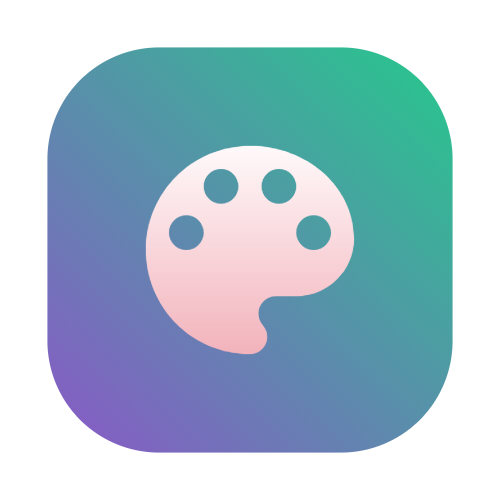
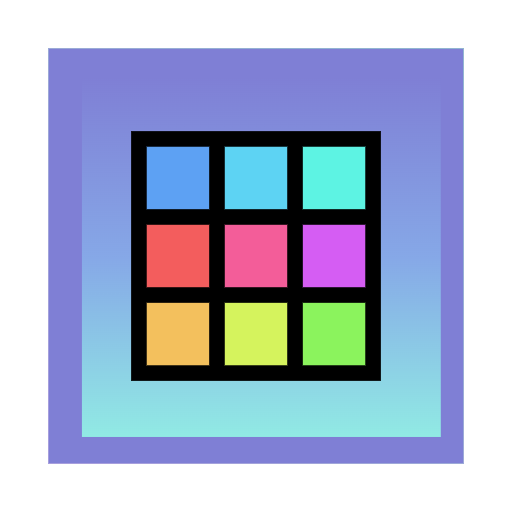
Nearing 1.1
Fixed program not selecting new colors. Updated icon theme.

diff --git a/mainwindow.cpp b/mainwindow.cpp
@@ -96,6 +96,9 @@ void MainWindow::on_actionAdd_New_Color_triggered()
     QClipboard *clipboard = QApplication::clipboard();
     clipboard->setText(ColorName);
 
+    // Select the new item
+    ui->listWidget->setCurrentRow(insertRow);
+
 
 }
 
@@ -246,8 +249,8 @@ void MainWindow::on_actionAbout_Pigment_triggered()
 {
     QMessageBox aboutBox;
     aboutBox.setWindowTitle("About Shade Saver");
-    aboutBox.setText("Shade Saver; keep track of your colors!");
-    aboutBox.setInformativeText("Jessica Leyba, 2024, GPL v3, see license for more information");
+    aboutBox.setText("Shade Saver; pick and keep track of colors!");
+    aboutBox.setInformativeText("Softwave, 2024, GPL v3, see license for more information");
     aboutBox.exec();
 }
 
